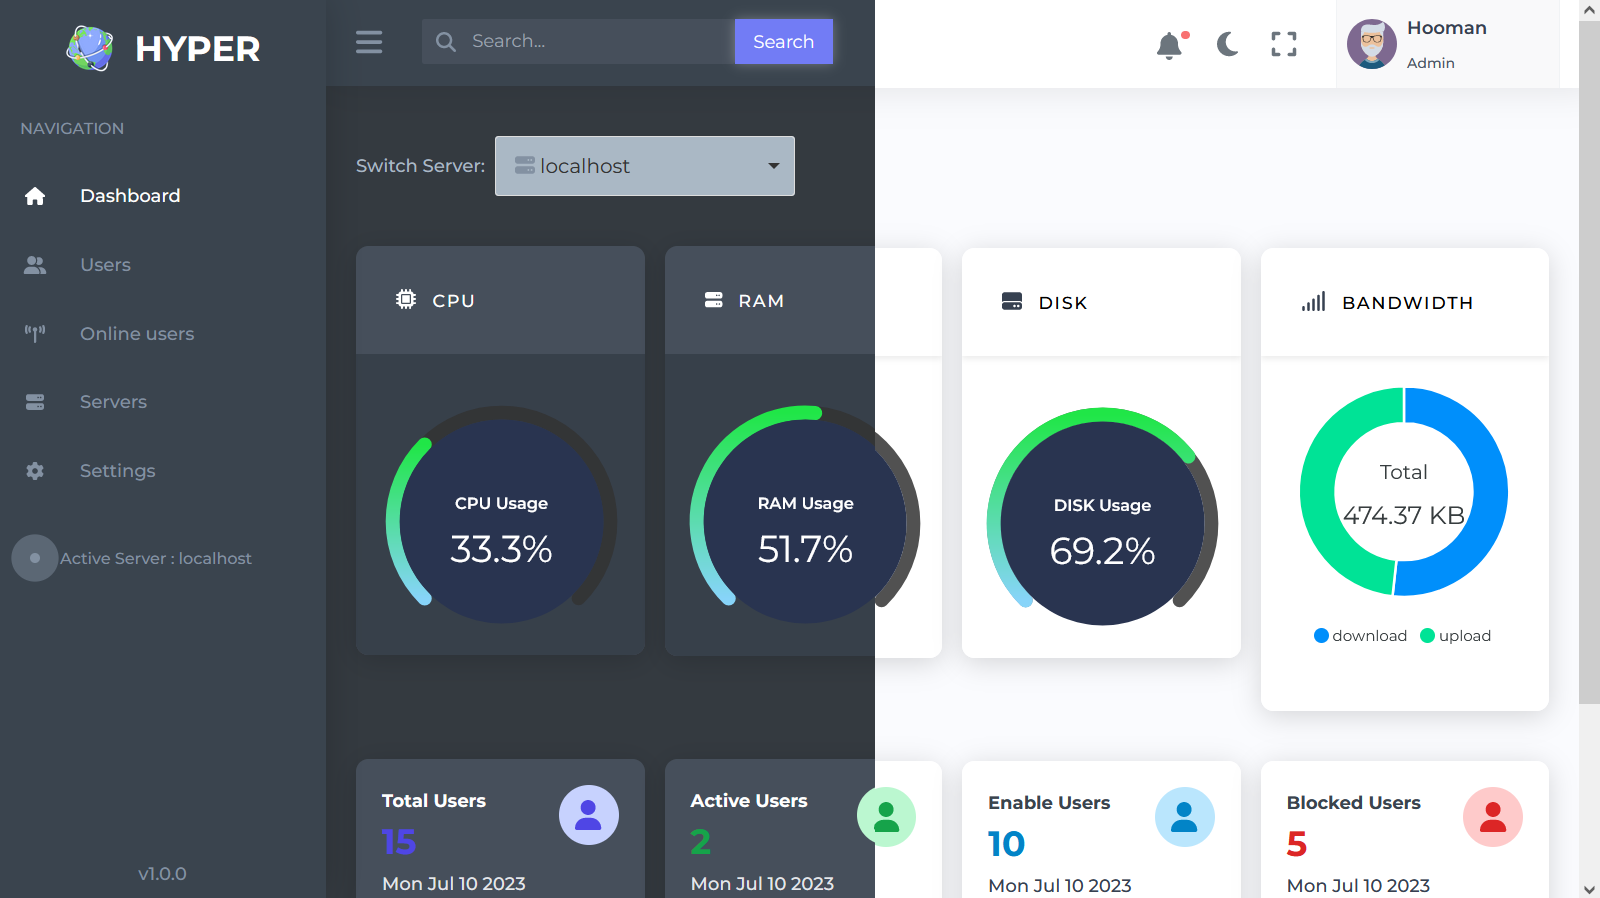
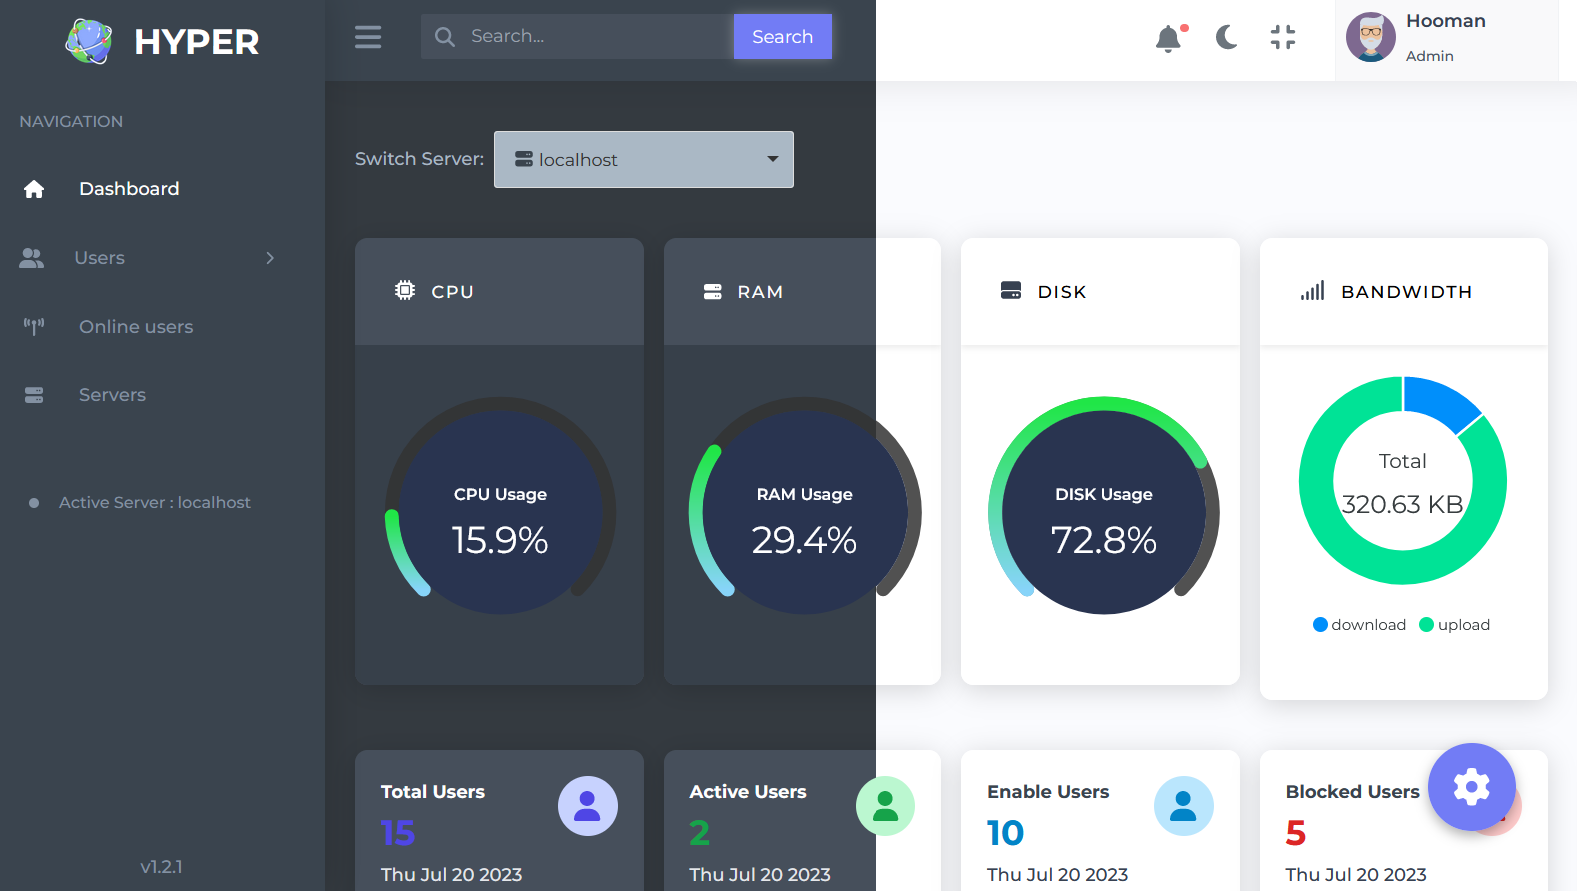
update readme

diff --git a/README.md b/README.md
@@ -7,23 +7,28 @@
 
 ## Preview
 
-### Panel contains 4 main pages
-#### 1- Dashboard
-##### in this page as you can see is server and client status are live visible that is programmed by web socket.
+## Panel contains 4 main pages
+### 1- Dashboard
+#### in this page as you can see is server and client status are live visible that is programmed by web socket.
 <img alt="page 1" src="preview/p1.png">
 
-#### 2- Users
+### 2- Users
 
-##### this page belongs to users and its operation. You are able to 1- change the password 2- renew expired user 30  3- lock/unlock user 4- download user detail in text file 5- edit user detail 6- generate several user 7- create single user
+#### this page belongs to users and its operation. You are able to 1- change the password 2- renew expired user 30  3- lock/unlock user 4- download user detail in text file 5- edit user detail 6- generate several user 7- create single user
 <img alt="page 2" src="preview/p2.png">
 
-#### 3- Online users
-##### in this page is shown the status of online user, which you can disconnect their connection.
+### 3- Online users
+#### in this page is shown the status of online user, which you can disconnect their connection.
 <img alt="page 3" src="preview/p3.png">
 
-#### 4- Servers
-##### in this page you can see the available servers which you are able to switch between them.
+### 4- Servers
+#### in this page you can see the available servers which you are able to switch between them.
 <img alt="page 4" src="preview/p4.png">
+
+### Settings section
+#### by this float button you can configure your panel by opening a modal.
+<img alt="page 5" src="preview/p6.png">
+<img alt="page 6" src="preview/p5.png">
 
 
 ## Project structure
@@ -32,21 +37,20 @@
 ├── tailwind.config.js => tailwind class configs
 ├── colors.ts => project color palates
 ├── index.html
-├── webpack.dev.config.ts => webpack config for development
+├── vite.config.ts => vite config
 ├── webpack.prod.config.ts => webpack config for production
 ├── tsconfig.json => typescript config
 ├── postcss.config.js => postcss config for tailwind and bundling
 ├── formkit.config.ts => formkit plugins
-├── .d.ts => typescript decleration
-├── .babelrc => using babelrc for transfering js high level ecmascript code to low level for better proformance on older browser
 ├── package.json
+├── public => images
 ├── package-lock.json
 ├── README.md
 └── src
     ├── app.ts  => entry point file for webpack and packages
     ├── App.vue  => entry point vue component
     ├── router.ts  => page routing configs
-    ├── shims-vue.d.ts => typescript decleration file for vue components
+    ├── vite-env.d.ts => typescript decleration file for vue components
     └── utils
         ├── Data.ts => tabs data
         ├── Helper.ts => some helper function
